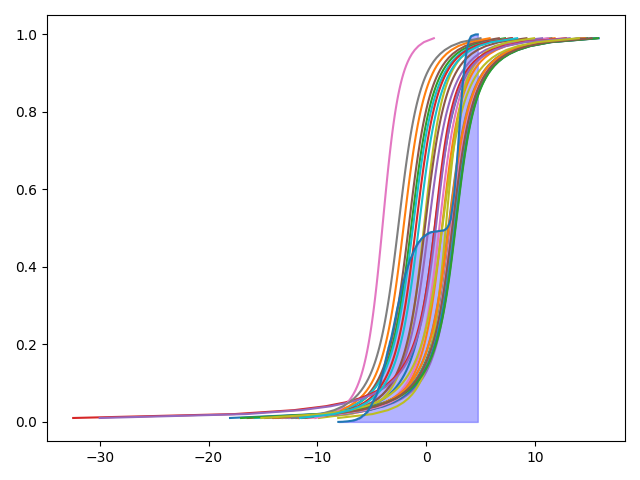
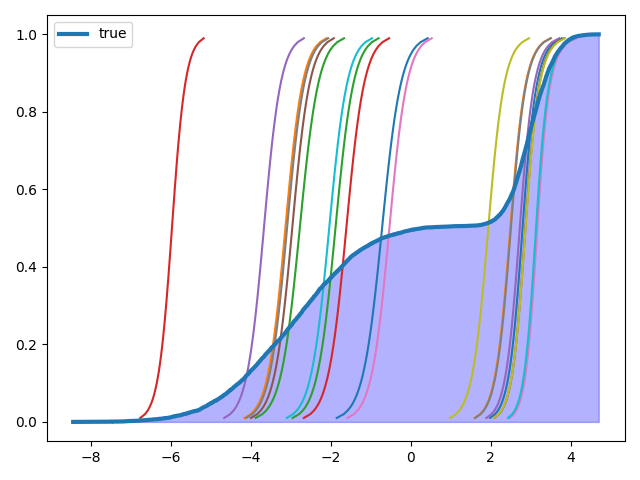
update toyexample :

diff --git a/toyexample/main.py b/toyexample/main.py
@@ -14,14 +14,14 @@ def get_args(debug):
     
     parser.add_argument('--seed', type=int, default=42, 
                         help='seed for repeatable results')
-    parser.add_argument('--dataset', type=str, default='mixture', 
+    parser.add_argument('--dataset', type=str, default='heavytailed', 
                         help='Dataset options: heavytailed, uniform, mixture')
     parser.add_argument('--model', type=str, default='Gaussian', 
                         help='Model options: Gaussian, GLD_finite, GLD_infinite, LSQF')
     
     parser.add_argument("--latent_dim", default=2, type=int,
                         help="the latent dimension size")
-    parser.add_argument("--n", default=5000, type=int,
+    parser.add_argument("--n", default=10000, type=int,
                         help="the number of observations")
     
     parser.add_argument('--epochs', default=500, type=int,
@@ -209,7 +209,7 @@ def main():
     #%%
     if config["model"] in ["GLD_finite", "GLD_infinite"]:
         with torch.no_grad():
-            z_ = torch.randn((30, config["latent_dim"]))
+            z_ = torch.randn((20, config["latent_dim"]))
             theta1, theta2, theta3, theta4 = model.decode(z_)
 
         for i in range(len(z_)):
@@ -218,19 +218,20 @@ def main():
             plt.plot(syndata.numpy(), alpha.numpy())
         plt.plot(
             np.sort(data.squeeze().numpy()), 
-            np.linspace(0, 1, len(data), endpoint=False))
+            np.linspace(0, 1, len(data), endpoint=False), linewidth=3, label="true")
         plt.fill_between(
             np.sort(data.squeeze().numpy()), 
             np.linspace(0, 1, len(data), endpoint=False), 
             color='blue', alpha=0.3)
         plt.tight_layout()
+        plt.legend()
         plt.savefig(f"./{asset_dir}/latent_{config['dataset']}_{config['model']}.png")
         # plt.show()
         plt.close()
     #%%
     if config["model"] == "LSQF":
         with torch.no_grad():
-            z_ = torch.randn((30, config["latent_dim"]))
+            z_ = torch.randn((20, config["latent_dim"]))
             gamma, beta = model.decode(z_)
 
         for i in range(len(z_)):
@@ -239,7 +240,7 @@ def main():
             plt.plot(syndata.numpy(), alpha.numpy())
         plt.plot(
             np.sort(data.squeeze().numpy()), 
-            np.linspace(0, 1, len(data), endpoint=False))
+            np.linspace(0, 1, len(data), endpoint=False), linewidth=3, label="true")
         plt.fill_between(
             np.sort(data.squeeze().numpy()), 
             np.linspace(0, 1, len(data), endpoint=False), 
@@ -251,12 +252,13 @@ def main():
     #%%
     if config["model"] == "Gaussian":
         with torch.no_grad():
-            z_ = torch.randn((30, config["latent_dim"])) # prior distribution
+            z_ = torch.randn((20, config["latent_dim"])) # prior distribution
             xhat = model.decoder(z_)
             # h = model.decoder(z_)
             # xhat, logsigma = h[:, [0]], h[:, [1]]
         
-        weight = stats.norm.pdf(z_.numpy(), 0, 1)
+        var = stats.multivariate_normal(mean=[0,0], cov=[[1,0],[0,1]])
+        weight = var.pdf(z_.numpy())
         mu = xhat.numpy()
         sigma = np.ones((len(z_), 1)) * np.sqrt(beta_)
         # sigma = logsigma.exp().sqrt().numpy()
@@ -264,7 +266,8 @@ def main():
         for i in range(len(z_)):
             x = np.linspace(mu[i] - 3*sigma[i], mu[i] + 3*sigma[i], 100)
             plt.plot(x, weight[i] * stats.norm.pdf(x, mu[i], sigma[i]))
-        plt.hist(data.numpy(), density=True, bins="scott", alpha=0.5)
+        
+        plt.hist(data.numpy(), density=True, bins="scott", alpha=0.5, label="true")
         plt.tight_layout()
         plt.savefig(f"./{asset_dir}/latent_{config['dataset']}_{config['model']}.png")
         # plt.show()

diff --git a/toyexample/modules/model.py b/toyexample/modules/model.py
@@ -14,9 +14,11 @@ class GLDDecoder(nn.Module):
         self.device = device
         
         self.encoder = nn.Sequential(
-            nn.Linear(1, 2),
+            nn.Linear(1, 8),
             nn.ELU(),
-            nn.Linear(2, config["latent_dim"] * 2),
+            nn.Linear(8, 8),
+            nn.ELU(),
+            nn.Linear(8, config["latent_dim"] * 2),
         ).to(device)
         
         self.decoder = nn.Sequential(
@@ -86,9 +88,11 @@ class GaussianDecoder(nn.Module):
         self.device = device
         
         self.encoder = nn.Sequential(
-            nn.Linear(1, 2),
+            nn.Linear(1, 8),
             nn.ELU(),
-            nn.Linear(2, config["latent_dim"] * 2),
+            nn.Linear(8, 8),
+            nn.ELU(),
+            nn.Linear(8, config["latent_dim"] * 2),
         ).to(device)
         
         self.decoder = nn.Sequential(
@@ -133,9 +137,11 @@ class LSQFDecoder(nn.Module):
         self.device = device
         
         self.encoder = nn.Sequential(
-            nn.Linear(1, 2),
+            nn.Linear(1, 8),
             nn.ELU(),
-            nn.Linear(2, config["latent_dim"] * 2),
+            nn.Linear(8, 8),
+            nn.ELU(),
+            nn.Linear(8, config["latent_dim"] * 2),
         ).to(device)
         
         self.delta = torch.arange(0, 1 + config["step"], step=config["step"]).view(1, -1).to(device)

diff --git a/toyexample/modules/build_dataset.py b/toyexample/modules/build_dataset.py
@@ -2,6 +2,7 @@
 import torch
 import torch.nn as nn
 
+import numpy as np
 from scipy.stats import t
 #%%
 def build_heavytailed(config, device):
@@ -10,6 +11,7 @@ def build_heavytailed(config, device):
     
     df = 3 # degrees of freedom
     data = t.rvs(df, size=(n, 1), random_state=0)
+    data = np.clip(data, -20, 20)
     data = torch.from_numpy(data).to(device).float()
     return data
 #%%
